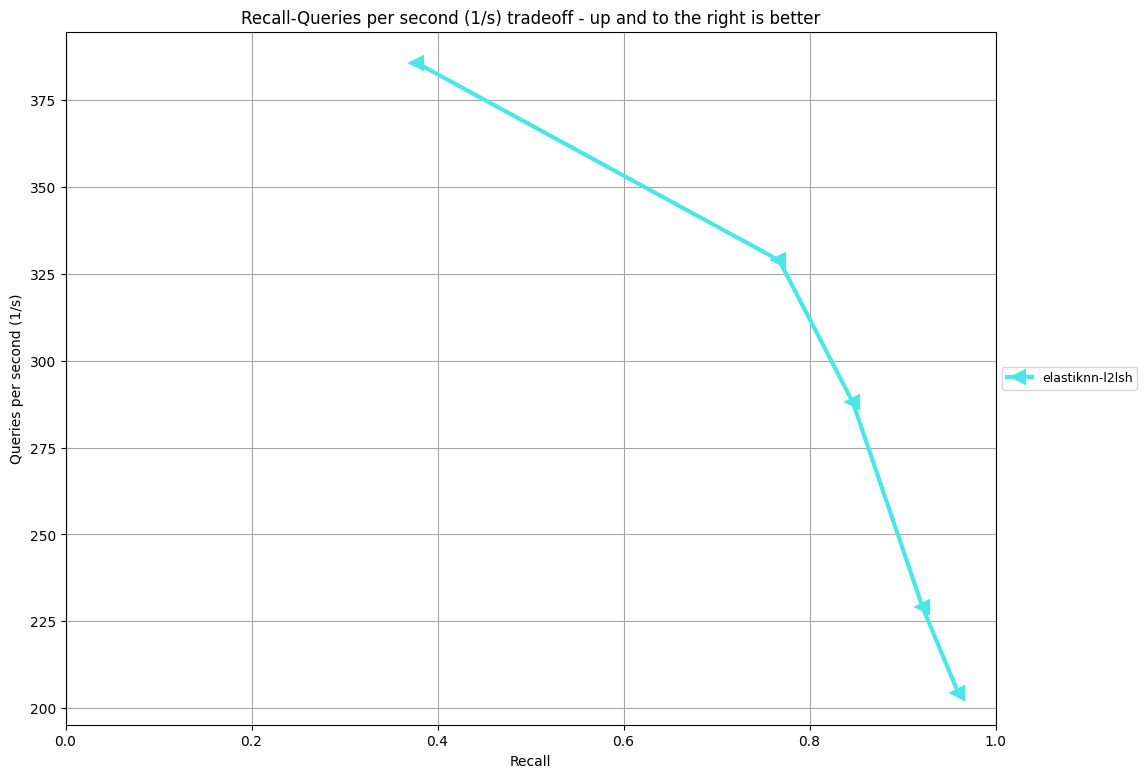
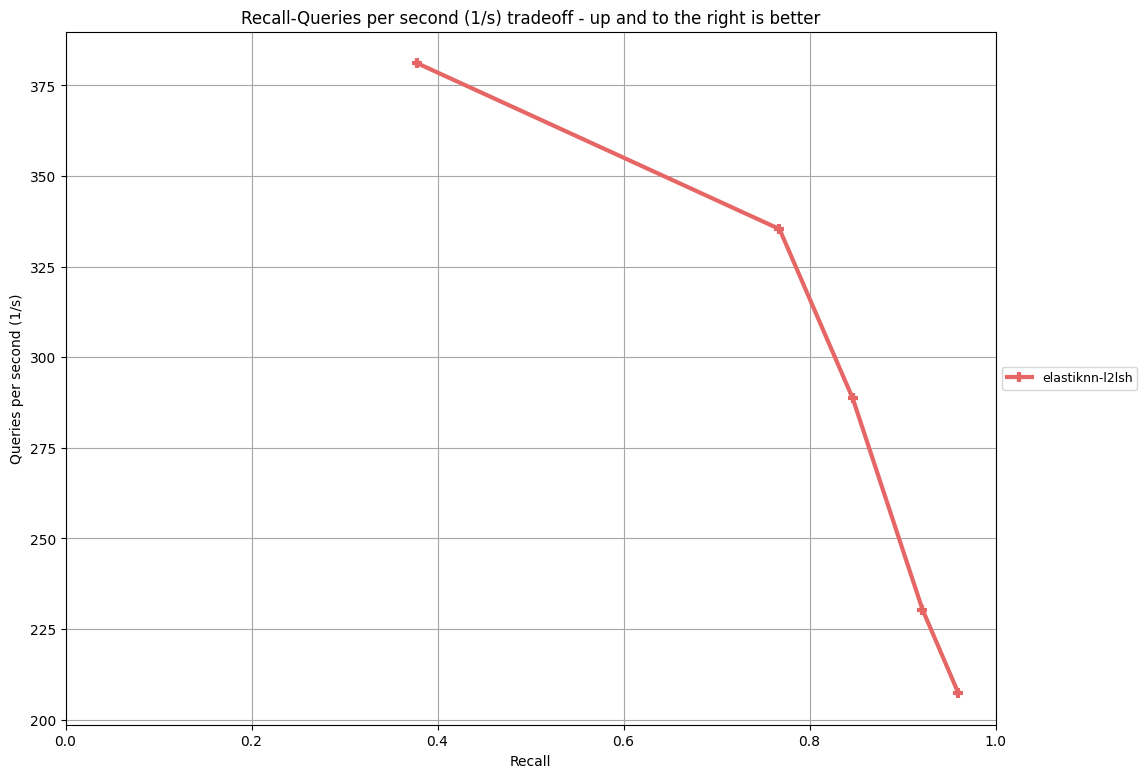
Performance: re-run benchmarks

diff --git a/docs/pages/performance/fashion-mnist/results.md b/docs/pages/performance/fashion-mnist/results.md
@@ -1,10 +1,10 @@
 |Model|Parameters|Recall|Queries per Second|
 |---|---|---|---|
-|eknn-l2lsh|L=100 k=4 w=1024 candidates=500 probes=0|0.378|385.618|
-|eknn-l2lsh|L=100 k=4 w=1024 candidates=1000 probes=0|0.446|321.420|
-|eknn-l2lsh|L=100 k=4 w=1024 candidates=500 probes=3|0.635|301.004|
-|eknn-l2lsh|L=100 k=4 w=1024 candidates=1000 probes=3|0.716|260.304|
-|eknn-l2lsh|L=100 k=4 w=2048 candidates=500 probes=0|0.767|328.881|
-|eknn-l2lsh|L=100 k=4 w=2048 candidates=1000 probes=0|0.847|287.976|
-|eknn-l2lsh|L=100 k=4 w=2048 candidates=500 probes=3|0.922|229.053|
-|eknn-l2lsh|L=100 k=4 w=2048 candidates=1000 probes=3|0.960|204.299|
+|eknn-l2lsh|L=100 k=4 w=1024 candidates=500 probes=0|0.378|381.122|
+|eknn-l2lsh|L=100 k=4 w=1024 candidates=1000 probes=0|0.447|315.007|
+|eknn-l2lsh|L=100 k=4 w=1024 candidates=500 probes=3|0.635|302.868|
+|eknn-l2lsh|L=100 k=4 w=1024 candidates=1000 probes=3|0.716|258.193|
+|eknn-l2lsh|L=100 k=4 w=2048 candidates=500 probes=0|0.768|335.365|
+|eknn-l2lsh|L=100 k=4 w=2048 candidates=1000 probes=0|0.846|288.638|
+|eknn-l2lsh|L=100 k=4 w=2048 candidates=500 probes=3|0.921|230.383|
+|eknn-l2lsh|L=100 k=4 w=2048 candidates=1000 probes=3|0.960|207.293|
